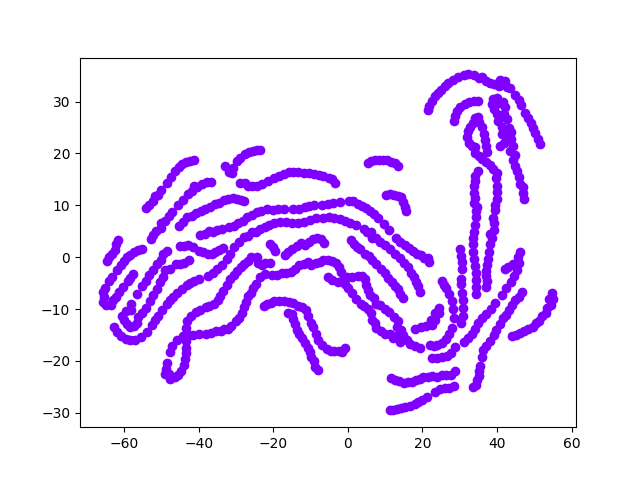
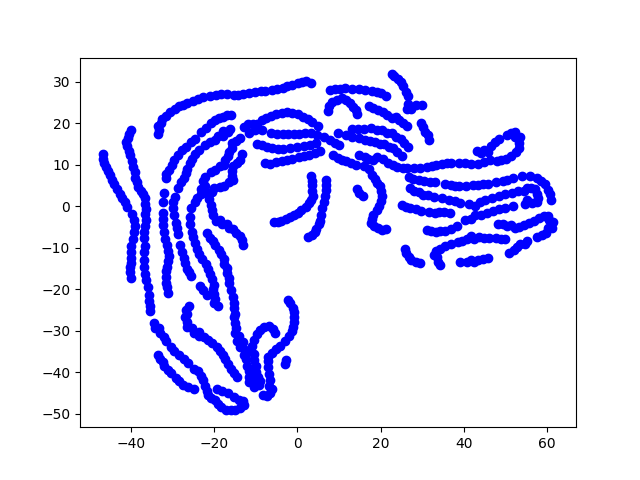
Specify color for t-SNE

diff --git a/tsne.py b/tsne.py
@@ -51,7 +51,7 @@ def plot_tsne(tsne_loaders, tdc, cmc, device, save=False, log_to_wandb=True):
 
     # Scatterplot with different colors
     xs, ys = zip(*tsne_embeds)
-    scatter_colors = cm.rainbow(np.linspace(0, 1, len(embeds)))
+    scatter_colors = ["blue", "green", "red", "cyan", "magenta", "yellow"]
 
     embed_sizes = [0] + [len(embed) for embed in embeds]
     for i, _ in enumerate(embed_sizes):
@@ -59,7 +59,7 @@ def plot_tsne(tsne_loaders, tdc, cmc, device, save=False, log_to_wandb=True):
             break
         xs_part = xs[embed_sizes[i] : embed_sizes[i + 1]]
         ys_part = ys[embed_sizes[i] : embed_sizes[i + 1]]
-        plt.scatter(xs_part, ys_part, c=[scatter_colors[i]])
+        plt.scatter(xs_part, ys_part, c=scatter_colors[i])
 
     # Save and show completed plot
     if save:
